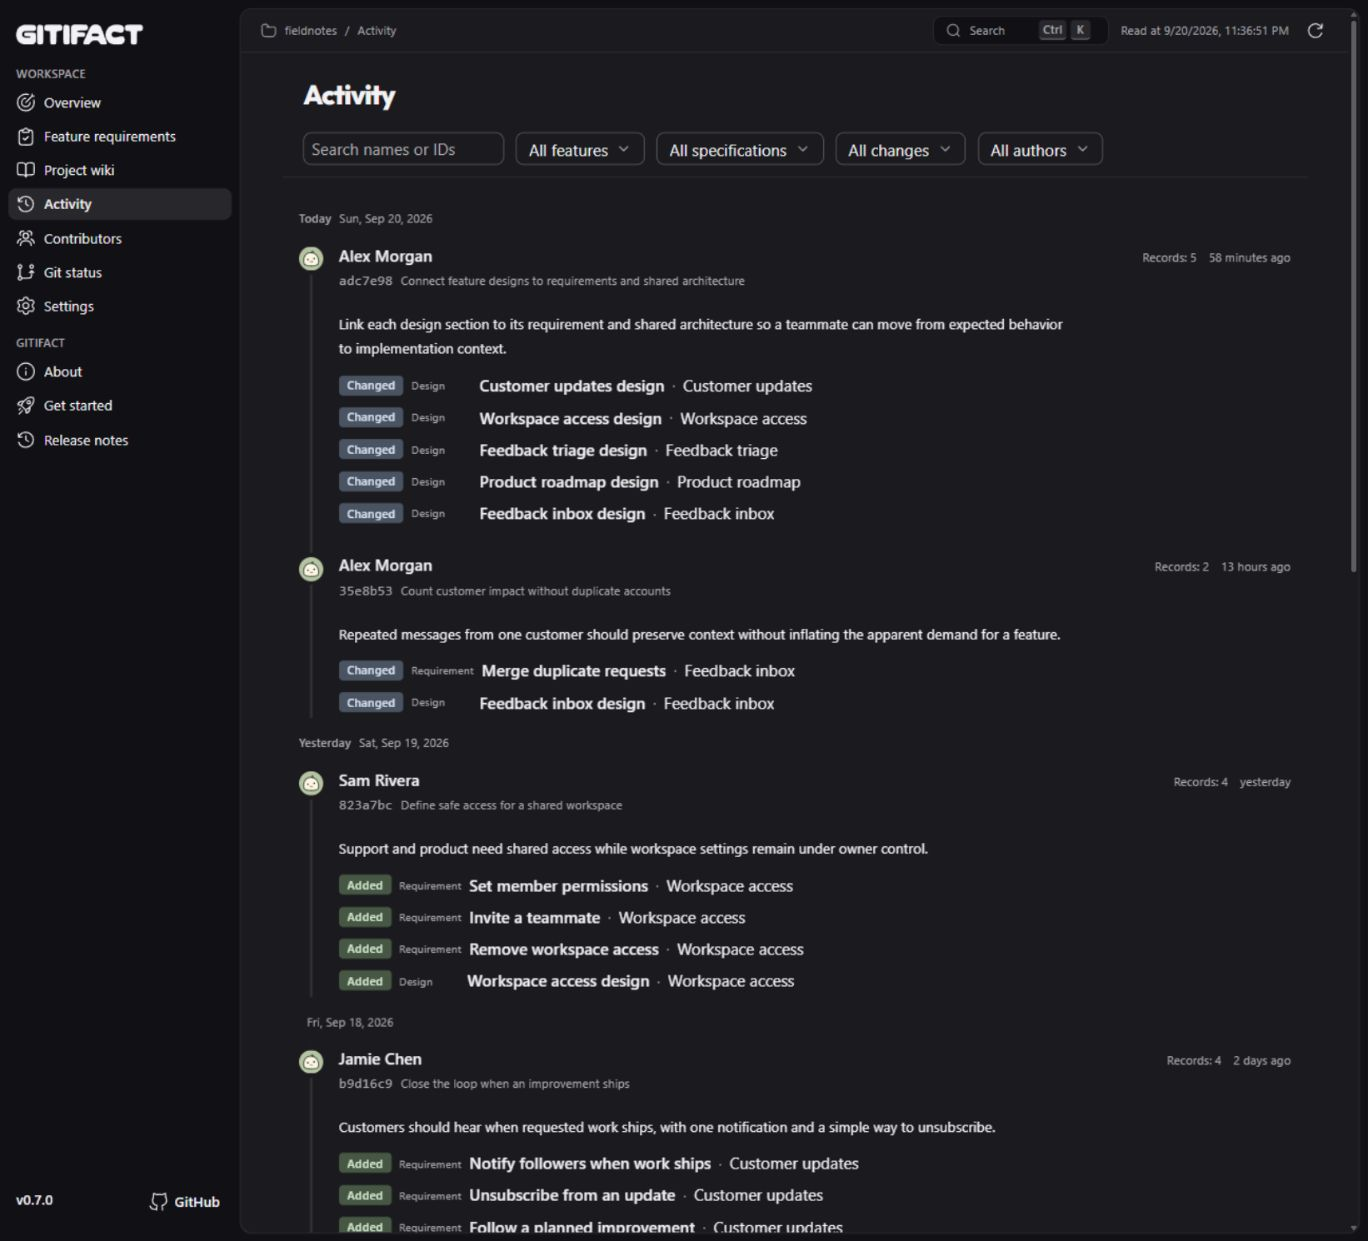
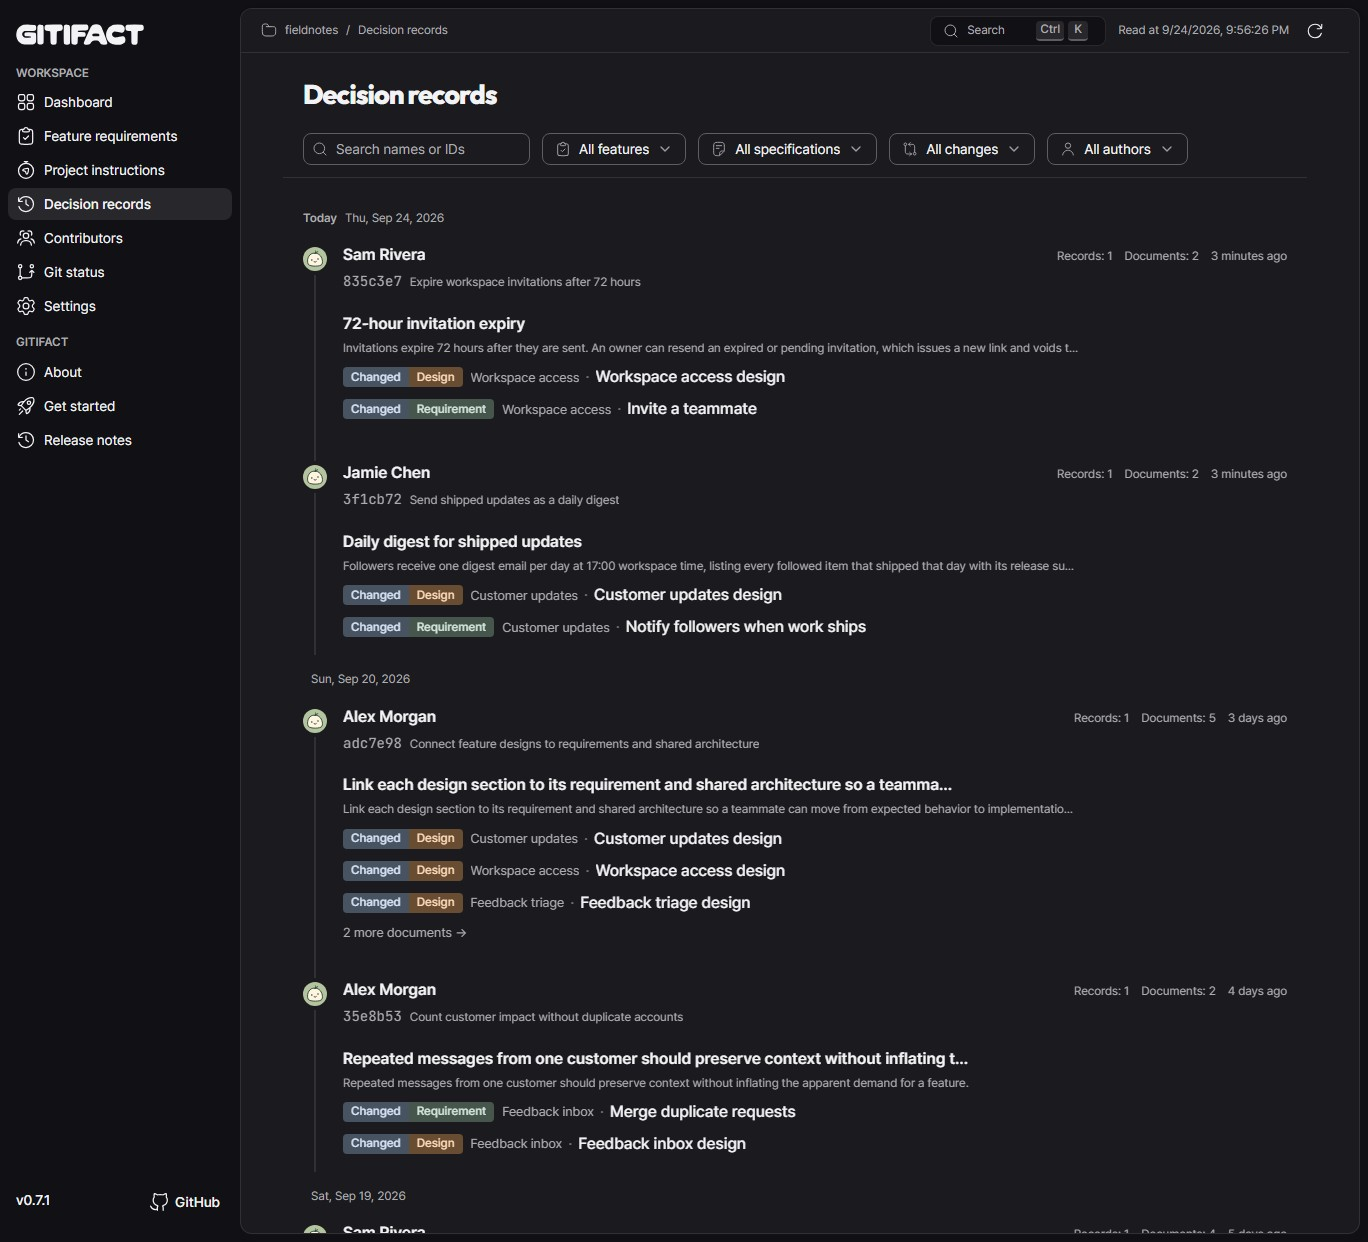
docs: README screenshots of decision records and the dashboard menu
The three screenshots show the current menu, the filter icons and the decision
record list with two records written in the Fieldnotes demo.

diff --git a/docs/readme-screenshots.md b/docs/readme-screenshots.md
@@ -6,7 +6,7 @@
 | --- | --- |
 | `feature-requirements.jpg` | 기능별 요구사항과 설계 연결 |
 | `project-instructions.jpg` | AGENTS.md와 작업별 지침 3개가 있는 프로젝트 지침 목록 |
-| `activity.jpg` | 명세 변경, 작성자, 변경 이유 |
+| `activity.jpg` | 결정기록 목록: 커밋마다 결정기록과 그것이 설명하는 문서 변경 |
 
 ## 촬영 자료
 
@@ -21,6 +21,14 @@ Fieldnotes는 고객 피드백을 제품 로드맵과 연결하는 가상의 서
 ## 2026-09-24 프로젝트 지침 화면
 
 위키가 프로젝트 지침으로 바뀌어 `project-wiki.jpg`를 `project-instructions.jpg`로 바꿨다. 원본 데모는 그대로 두고, 사본 `.tmp/readme-showcase/fieldnotes-0.8`을 개발 빌드의 `guide show migrate` 절차로 0.8.0 형식에 옮겼다(전환 커밋과 AGENTS.md 색인 커밋). 위키 폴더 셋이 지침 `architecture`·`handbook`·`product`가 됐다. 촬영은 같은 조건(English, Dark, 1368×1242)으로 Playwright chromium이 반환한 JPEG(품질 90)를 그대로 저장했다. 사이드바의 버전 표시는 촬영 때 빌드 버전인 v0.7.1이다. 이 전환에서 찾은 migrate 지침의 빈틈(고친 위키 README의 처리, 제목 없는 폴더, 설계의 `# 제목` 줄)은 지침에 반영했다. 데모의 README는 그 반영 전에 옮겨 지침이 되지 않았다.
+
+## 2026-09-24 결정기록과 대시보드
+
+변경 이유가 결정기록으로, 활동 메뉴가 "Decision records"로, 제품 개요가 "Dashboard"로 바뀌어 세 장을 모두 다시 찍었다. 사이드바와 필터에 아이콘이 생겨 나머지 두 장도 옛 화면이었다.
+
+데모 `fieldnotes-0.8`은 이전 개발 빌드로 옮긴 것이라 옛 이유 파일 `history.jsonl`이 남아 있었다. 현재 개발 빌드의 CLI로 세 커밋을 더했다. Alex Morgan이 옛 이유 파일을 지웠고, Jamie Chen이 출시 알림을 하루 한 통 요약으로 바꿨으며(요구사항·설계와 결정기록), Sam Rivera가 초대 유효 기간을 72시간으로 줄였다(요구사항·설계와 결정기록). 스크립트는 로컬 촬영 자료다. 브라우저의 이동 경로가 폴더 이름을 쓰므로 `.tmp/readme-showcase/shoot/fieldnotes`로 복제해 찍었다.
+
+촬영 조건은 같다(English, Dark, 1368×1242, Playwright chromium JPEG 품질 90, 재압축 없음). 사이드바의 버전 표시는 빌드 버전인 v0.7.1이다. 촬영 중 0.7 이유가 문서마다 다른 ID로 저장돼 결정기록 목록에 같은 글이 문서 수만큼 반복되는 결함을 찾아 고쳤다(한 커밋 안의 같은 옛 이유는 한 묶음).
 
 ## 검증
 

diff --git a/README.md b/README.md
@@ -68,7 +68,7 @@ With Gitifact, the agent prepares a requirements draft and refines it as the con
 
 You do not need to write a separate explanation or remember recording commands. When an existing requirement changes or one of several options is chosen, the agent turns the conversation into a decision record: a title and a few short sections (context and decision, plus alternatives considered when there were any). Records gather by document, so you can later read in order why a document looks the way it does. When the intended behavior is unclear, it asks for clarification.
 
-![Requirement and design changes with their reasons in the activity timeline](https://raw.githubusercontent.com/dev-goraebap/gitifact/main/packages/intro/assets/screenshots/activity.jpg)
+![Requirement and design changes under the decision records that explain them](https://raw.githubusercontent.com/dev-goraebap/gitifact/main/packages/intro/assets/screenshots/activity.jpg)
 
 ## Adopt it gradually
 

diff --git a/packages/intro/en/intro.md b/packages/intro/en/intro.md
@@ -68,7 +68,7 @@ With Gitifact, the agent prepares a requirements draft and refines it as the con
 
 You do not need to write a separate explanation or remember recording commands. When an existing requirement changes or one of several options is chosen, the agent turns the conversation into a decision record: a title and a few short sections (context and decision, plus alternatives considered when there were any). Records gather by document, so you can later read in order why a document looks the way it does. When the intended behavior is unclear, it asks for clarification.
 
-![Requirement and design changes with their reasons in the activity timeline](https://raw.githubusercontent.com/dev-goraebap/gitifact/main/packages/intro/assets/screenshots/activity.jpg)
+![Requirement and design changes under the decision records that explain them](https://raw.githubusercontent.com/dev-goraebap/gitifact/main/packages/intro/assets/screenshots/activity.jpg)
 
 ## Adopt it gradually
 
